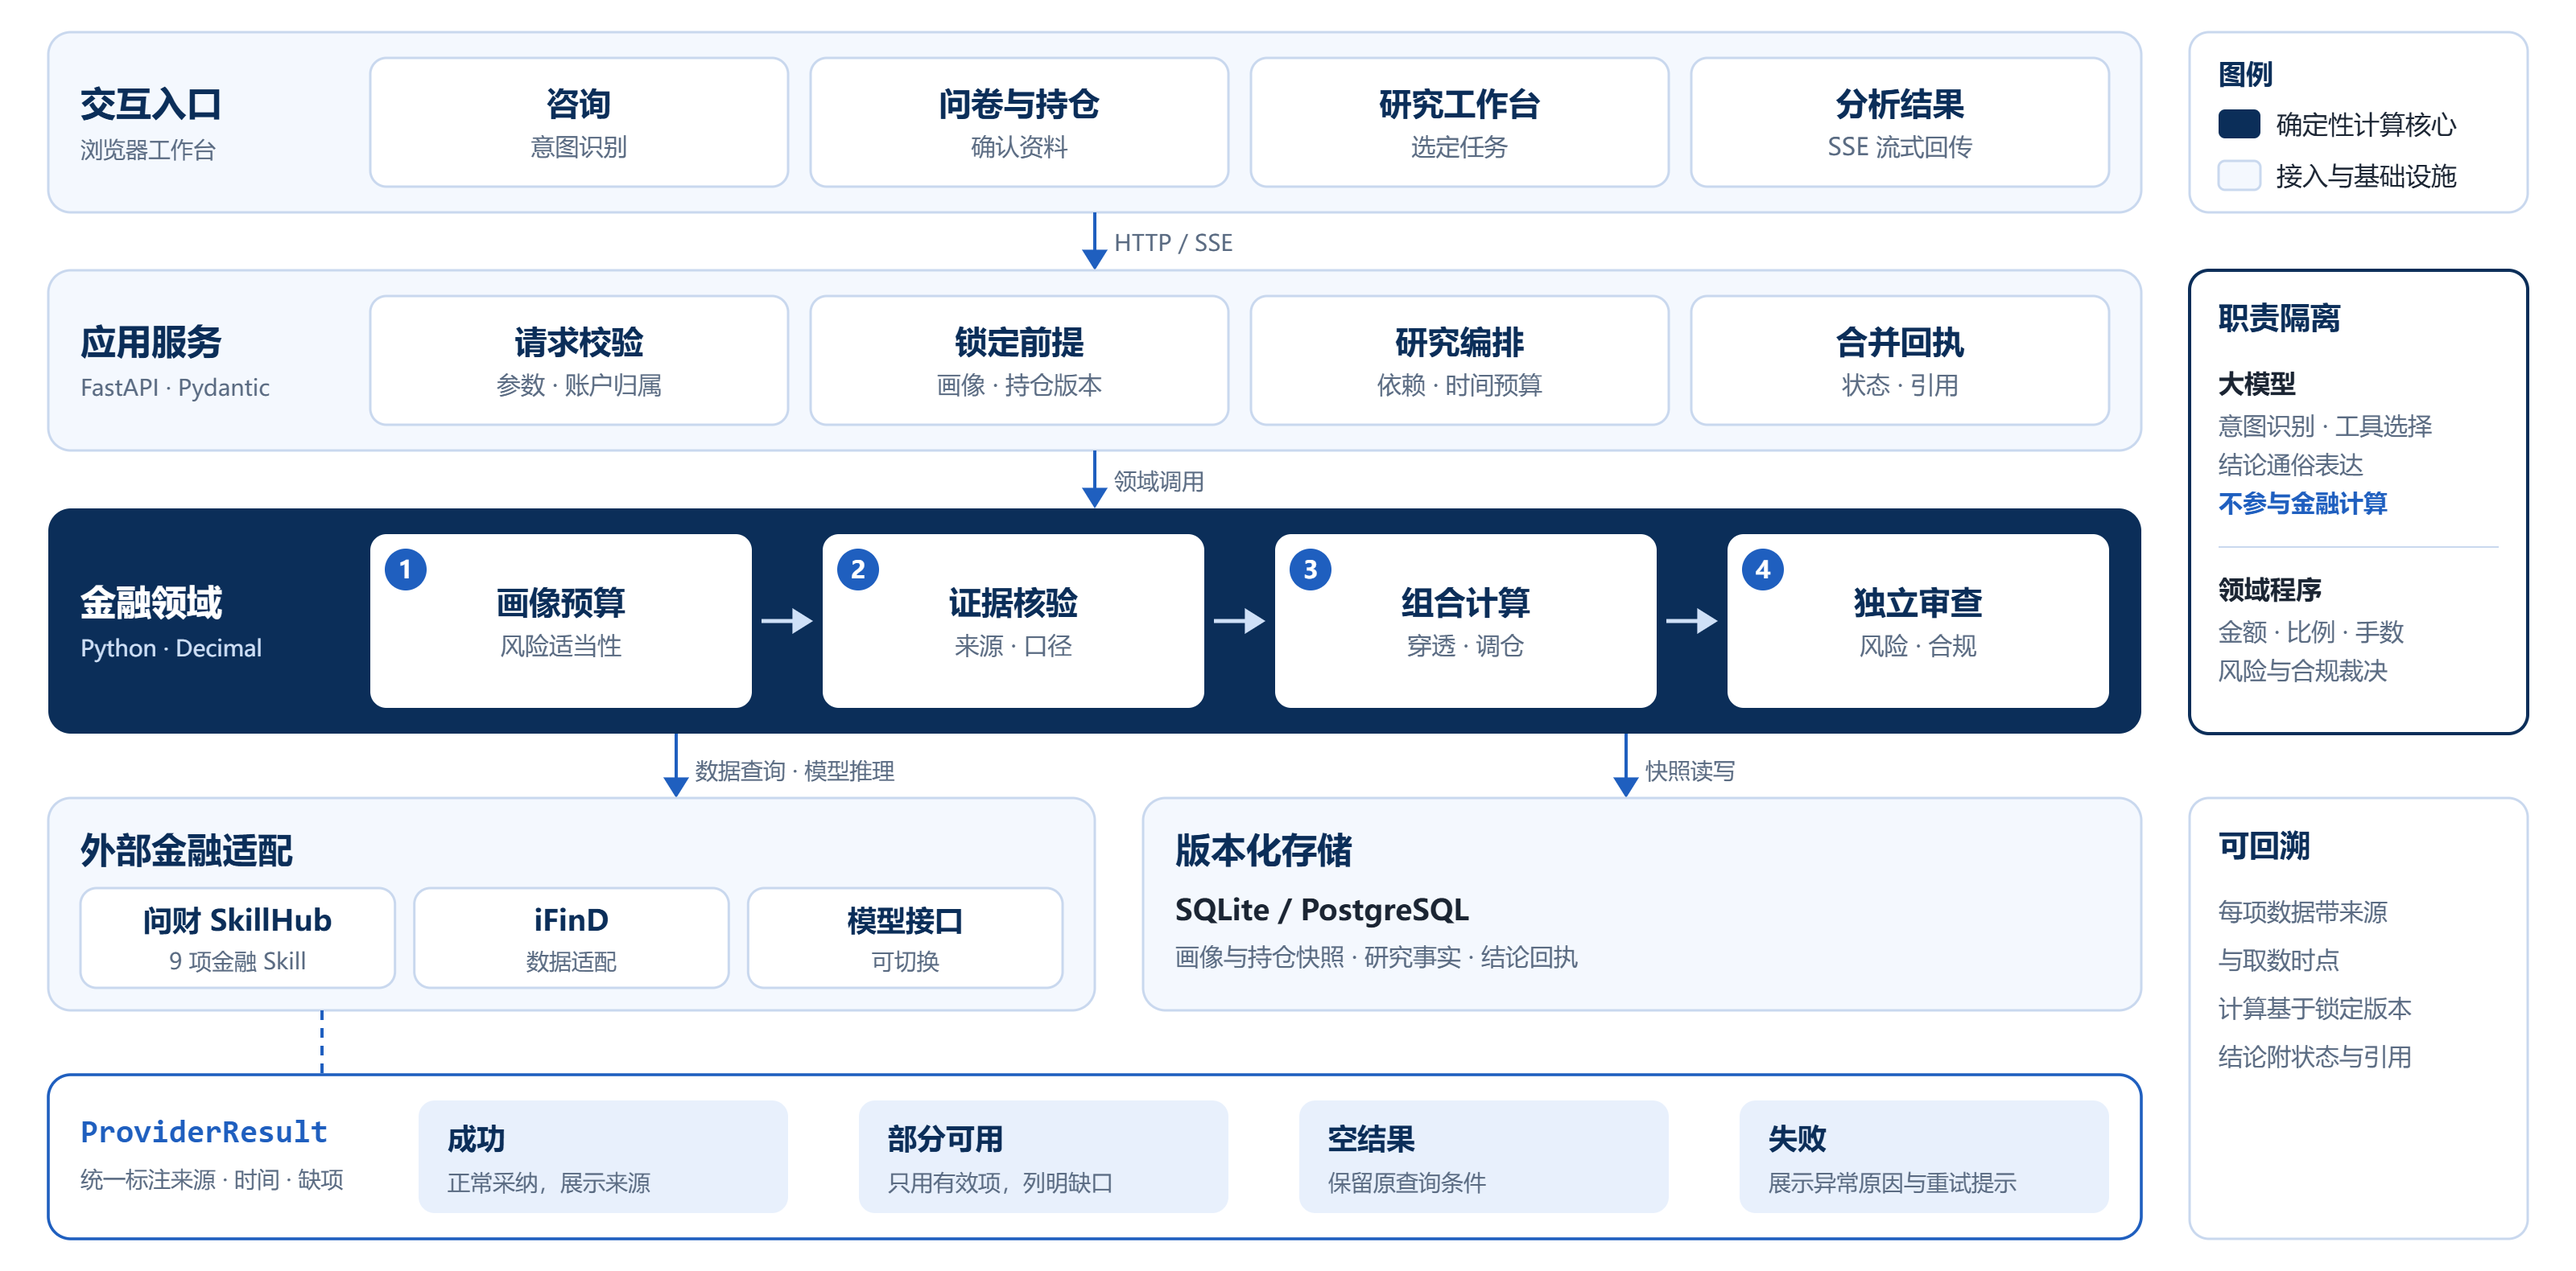
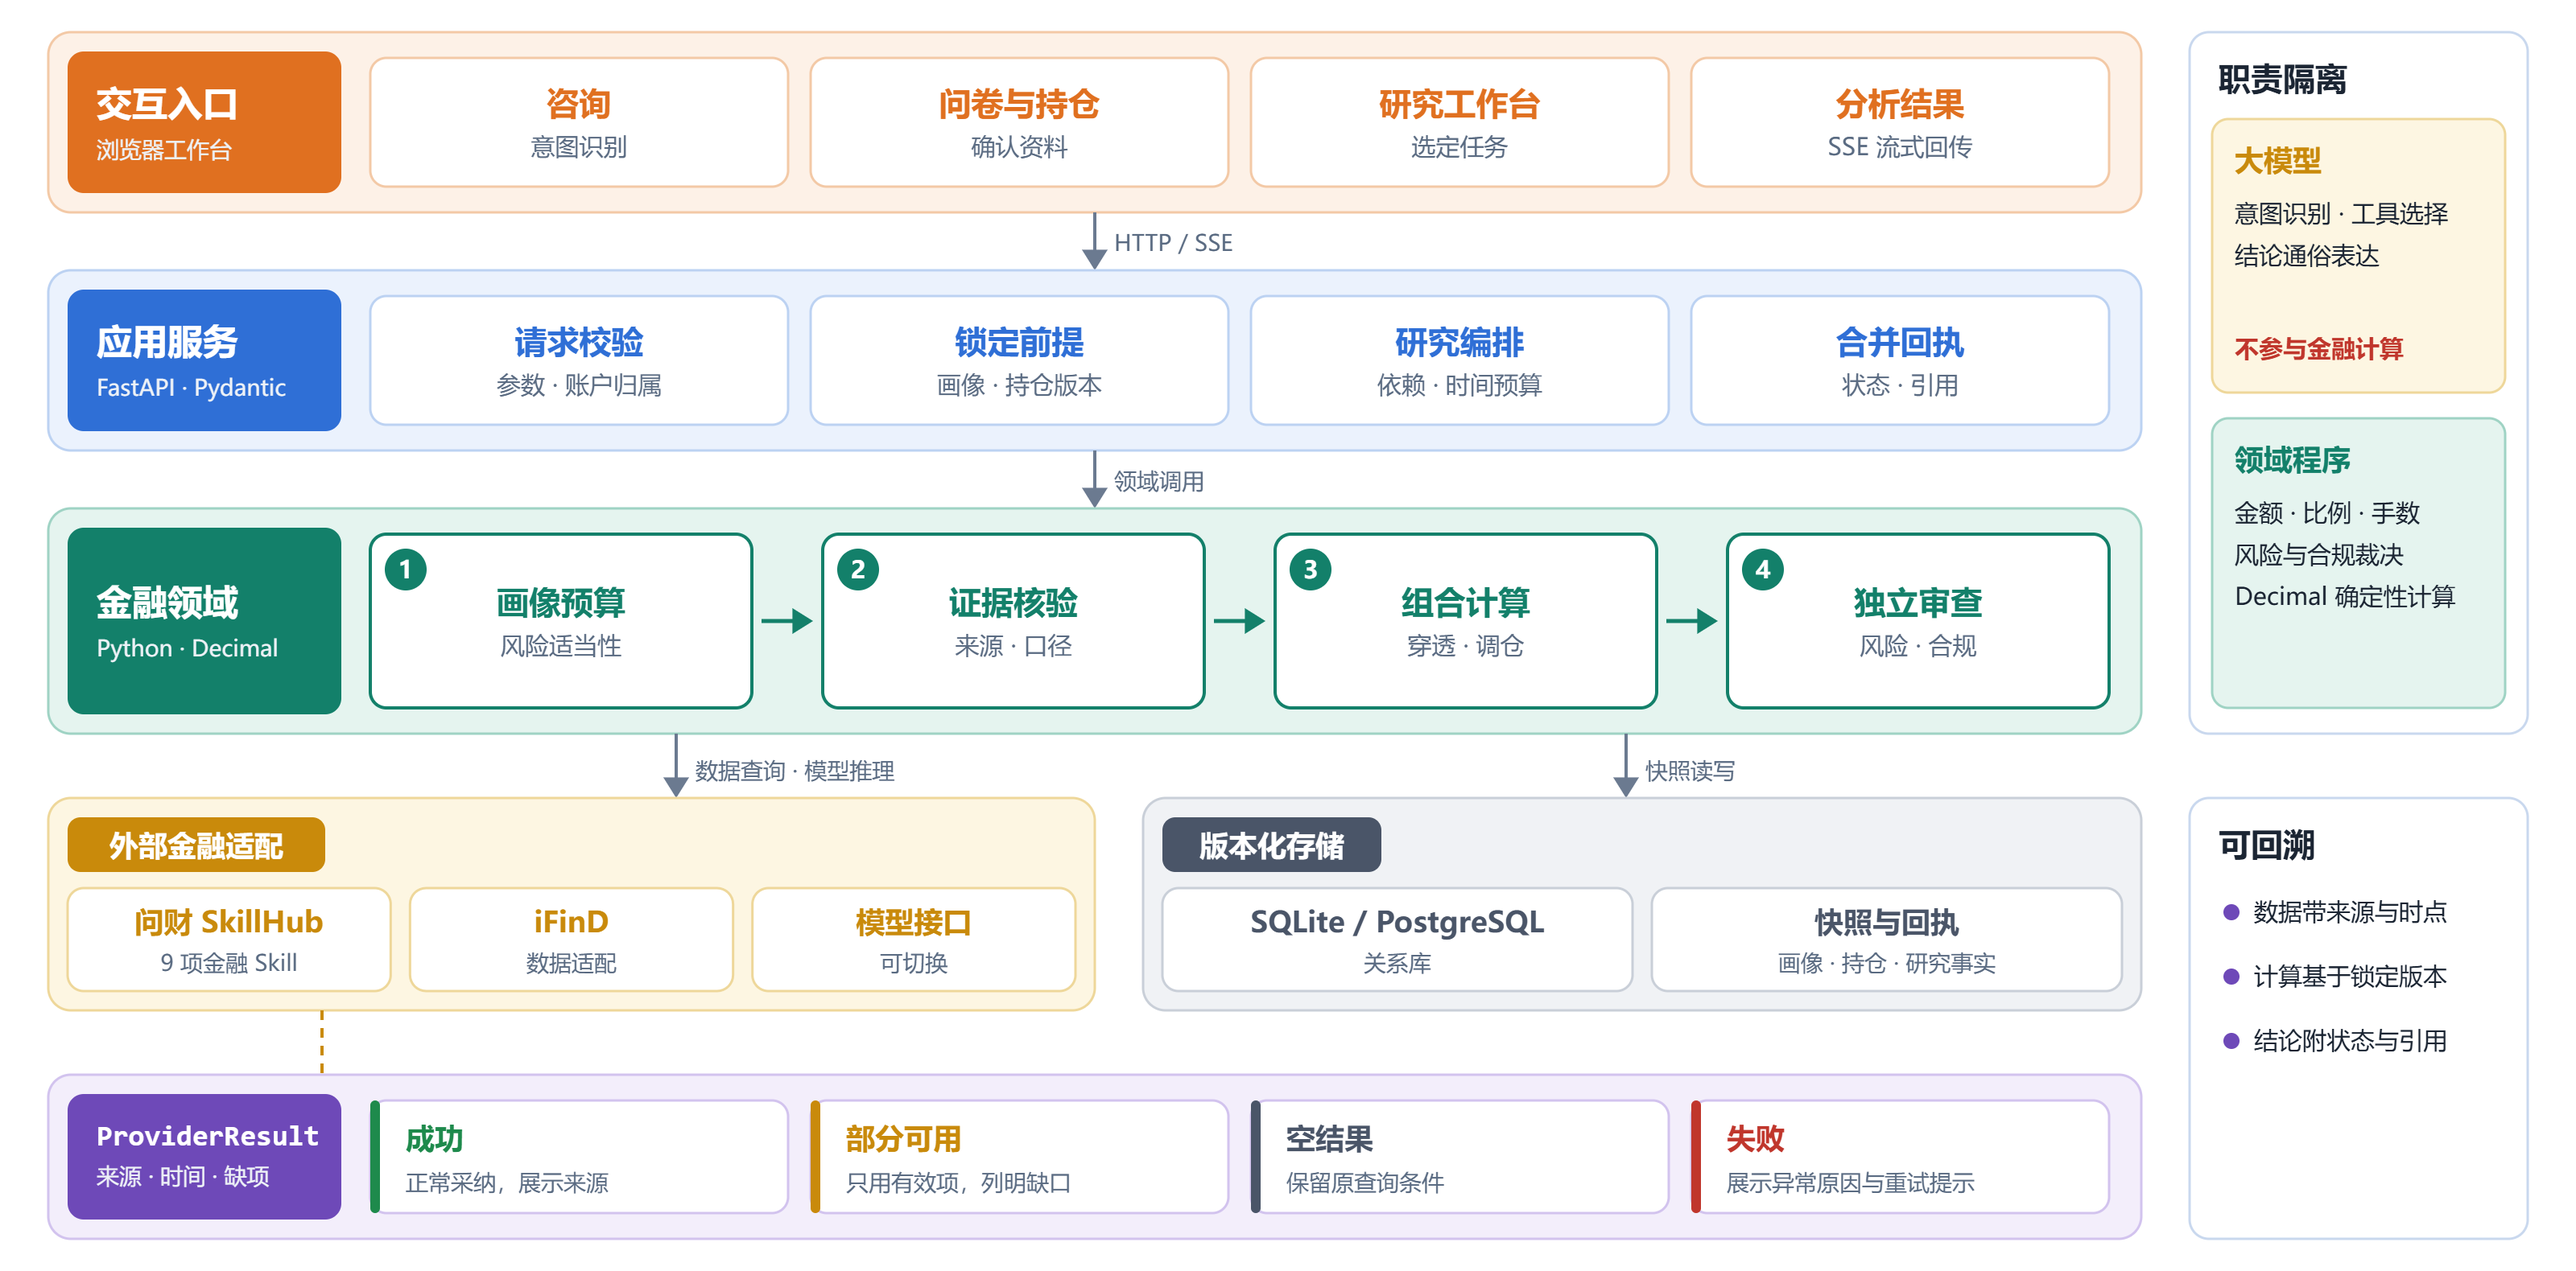
docs: give each S11 figure layer its own hue
Interaction orange, application blue, finance domain teal, adapters amber,
storage slate, ProviderResult purple with green/amber/gray/red states, so
blocks separate clearly on the slide.

diff --git a/docs/submission/s3-figures/build_fig_s11.py b/docs/submission/s3-figures/build_fig_s11.py
@@ -1,7 +1,8 @@
-"""S3 defense deck page 11 figure in the deck's navy/blue palette.
+"""S3 defense deck page 11 figure: model understands, server computes and reviews.
 
 Same layered layout as fig-s14 (layer label column + chips + right-side
-responsibility panel), recoloured to match the blue-white slide template.
+responsibility panel). Each layer has its own hue so blocks separate at a
+glance on the blue slide template.
 Run:  python docs/submission/s3-figures/build_fig_s11.py
       node docs/submission/s3-figures/render_png.mjs
 """
@@ -10,34 +11,52 @@ from __future__ import annotations
 
 from build_figures import MONO, Svg
 
-NAVY = "#0B2E59"
-BLUE = "#1F5FBF"
-BLUE_SOFT = "#E8F0FC"
-BLUE_PALE = "#F4F8FE"
-LINE = "#C9D8EE"
 INK = "#1B2533"
 MUTED = "#5A6B82"
-LIGHT = "#CFE0F7"
+ARROW = "#6B7A90"
 WHITE = "#FFFFFF"
+
+# hue: (accent, soft zone fill, card border)
+ORANGE = ("#E07020", "#FDF1E7", "#F3C9A6")
+BLUE = ("#2F6FD6", "#EBF2FD", "#BCD2F2")
+TEAL = ("#13806A", "#E5F4EF", "#9FD3C4")
+AMBER = ("#C98A0B", "#FDF6E2", "#EED79A")
+SLATE = ("#4A5568", "#F0F2F5", "#C9CFD8")
+PURPLE = ("#6E49B8", "#F3EEFB", "#D2C3EE")
+GREEN_S = "#1E8A4C"
+RED_S = "#C0362C"
 
 L, R = 230, 1330  # chip column inside layers
 
 
-def layer(s: Svg, y, h, name, tech, chips, *, focus=False):
-    s.rect(30, y, R - 30, h, NAVY if focus else BLUE_PALE, None if focus else LINE, 1.5, 14)
-    s.text(50, y + h / 2 - 4, name, 22, 700, WHITE if focus else NAVY)
-    s.text(50, y + h / 2 + 22, tech, 14, 400, LIGHT if focus else MUTED)
+def tab(s: Svg, x, y, w, h, name, tech, hue):
+    """Solid coloured label block on the left of a zone."""
+    acc = hue[0]
+    s.rect(x, y, w, h, acc, None, 0, 10)
+    s.text(x + 18, y + h / 2 - 4, name, 22, 700, WHITE)
+    s.text(x + 18, y + h / 2 + 22, tech, 14, 400, "#EEF2F7")
+
+
+def layer(s: Svg, y, h, name, tech, chips, hue, *, steps=False):
+    acc, soft, line = hue
+    s.rect(30, y, R - 30, h, soft, line, 1.5, 14)
+    tab(s, 42, y + 12, L - 60, h - 24, name, tech, hue)
     n = len(chips)
-    gap = 44 if focus else 14
+    gap = 44 if steps else 14
     cw = (R - L - 20 - (n - 1) * gap) / n
     for i, (t, sub) in enumerate(chips):
         x = L + i * (cw + gap)
-        s.box(x, y + 16, cw, h - 32, t, sub, fill=WHITE, stroke=None if focus else LINE,
-              tcolor=NAVY, scolor=MUTED, tsize=20, ssize=15)
-        if focus:
-            s.badge(x + 22, y + 38, str(i + 1), fill=BLUE, r=13, size=15)
+        s.box(x, y + 16, cw, h - 32, t, sub, fill=WHITE, stroke=acc if steps else line,
+              sw=2 if steps else 1.5, tcolor=acc, scolor=MUTED, tsize=20, ssize=15)
+        if steps:
+            s.badge(x + 22, y + 38, str(i + 1), fill=acc, r=13, size=15)
             if i < n - 1:
-                s.arrow([(x + cw + 6, y + h / 2), (x + cw + gap - 6, y + h / 2)], LIGHT, 2.5)
+                s.arrow([(x + cw + 6, y + h / 2), (x + cw + gap - 6, y + h / 2)], acc, 2.5)
+
+
+def down(s: Svg, x, y1, y2, label):
+    s.arrow([(x, y1), (x, y2)], ARROW, 2)
+    s.text(x + 12, y2 - 12, label, 14, 400, MUTED)
 
 
 def fig_s11() -> None:
@@ -45,79 +64,83 @@ def fig_s11() -> None:
 
     layer(s, 20, 112, "交互入口", "浏览器工作台", [
         ("咨询", "意图识别"), ("问卷与持仓", "确认资料"),
-        ("研究工作台", "选定任务"), ("分析结果", "SSE 流式回传")])
-    s.arrow([(680, 132), (680, 168)], BLUE, 2)
-    s.text(692, 156, "HTTP / SSE", 14, 400, MUTED)
+        ("研究工作台", "选定任务"), ("分析结果", "SSE 流式回传")], ORANGE)
+    down(s, 680, 132, 168, "HTTP / SSE")
 
     layer(s, 168, 112, "应用服务", "FastAPI · Pydantic", [
         ("请求校验", "参数 · 账户归属"), ("锁定前提", "画像 · 持仓版本"),
-        ("研究编排", "依赖 · 时间预算"), ("合并回执", "状态 · 引用")])
-    s.arrow([(680, 280), (680, 316)], BLUE, 2)
-    s.text(692, 304, "领域调用", 14, 400, MUTED)
+        ("研究编排", "依赖 · 时间预算"), ("合并回执", "状态 · 引用")], BLUE)
+    down(s, 680, 280, 316, "领域调用")
 
     layer(s, 316, 140, "金融领域", "Python · Decimal", [
         ("画像预算", "风险适当性"), ("证据核验", "来源 · 口径"),
-        ("组合计算", "穿透 · 调仓"), ("独立审查", "风险 · 合规")], focus=True)
+        ("组合计算", "穿透 · 调仓"), ("独立审查", "风险 · 合规")], TEAL, steps=True)
 
     # bottom: adapters + storage
     y4, h4 = 496, 132
-    s.arrow([(420, 456), (420, y4)], BLUE, 2)
-    s.text(432, 484, "数据查询 · 模型推理", 14, 400, MUTED)
-    s.arrow([(1010, 456), (1010, y4)], BLUE, 2)
-    s.text(1022, 484, "快照读写", 14, 400, MUTED)
+    down(s, 420, 456, y4, "数据查询 · 模型推理")
+    down(s, 1010, 456, y4, "快照读写")
 
-    s.rect(30, y4, 650, h4, BLUE_PALE, LINE, 1.5, 14)
-    s.text(50, y4 + 40, "外部金融适配", 22, 700, NAVY)
+    acc, soft, line = AMBER
+    s.rect(30, y4, 650, h4, soft, line, 1.5, 14)
+    s.rect(42, y4 + 12, 160, 34, acc, None, 0, 8)
+    s.text(122, y4 + 36, "外部金融适配", 18, 700, WHITE, "middle")
     ext = [("问财 SkillHub", "9 项金融 Skill"), ("iFinD", "数据适配"), ("模型接口", "可切换")]
-    ew = (680 - 50 - 20 - 2 * 12) / 3
+    ew = (680 - 42 - 12 - 2 * 12) / 3
     for i, (t, sub) in enumerate(ext):
-        s.box(50 + i * (ew + 12), y4 + 56, ew, 62, t, sub, fill=WHITE, stroke=LINE,
-              tcolor=NAVY, scolor=MUTED, tsize=18, ssize=14)
+        s.box(42 + i * (ew + 12), y4 + 56, ew, 64, t, sub, fill=WHITE, stroke=line,
+              tcolor=acc, scolor=MUTED, tsize=18, ssize=14)
 
-    s.rect(710, y4, R - 710, h4, BLUE_PALE, LINE, 1.5, 14)
-    s.text(730, y4 + 40, "版本化存储", 22, 700, NAVY)
-    s.text(730, y4 + 76, "SQLite / PostgreSQL", 18, 700, INK)
-    s.text(730, y4 + 104, "画像与持仓快照 · 研究事实 · 结论回执", 15, 400, MUTED)
+    acc, soft, line = SLATE
+    s.rect(710, y4, R - 710, h4, soft, line, 1.5, 14)
+    s.rect(722, y4 + 12, 136, 34, acc, None, 0, 8)
+    s.text(790, y4 + 36, "版本化存储", 18, 700, WHITE, "middle")
+    dbs = [("SQLite / PostgreSQL", "关系库"), ("快照与回执", "画像 · 持仓 · 研究事实")]
+    dw = (R - 722 - 12 - 12) / 2
+    for i, (t, sub) in enumerate(dbs):
+        s.box(722 + i * (dw + 12), y4 + 56, dw, 64, t, sub, fill=WHITE, stroke=line,
+              tcolor=acc, scolor=MUTED, tsize=18, ssize=14)
 
     # provider result strip
     y5, h5 = 668, 102
-    s.line([(200, y4 + h4), (200, y5)], BLUE, 2, dash="6 5")
-    s.rect(30, y5, R - 30, h5, WHITE, BLUE, 1.8, 14)
-    s.text(50, y5 + 42, "ProviderResult", 20, 700, BLUE, font=MONO)
-    s.text(50, y5 + 70, "统一标注来源 · 时间 · 缺项", 14, 400, MUTED)
-    states = [("成功", "正常采纳，展示来源"), ("部分可用", "只用有效项，列明缺口"),
-              ("空结果", "保留原查询条件"), ("失败", "展示异常原因与重试提示")]
+    acc, soft, line = PURPLE
+    s.line([(200, y4 + h4), (200, y5)], AMBER[0], 2, dash="6 5")
+    s.rect(30, y5, R - 30, h5, soft, line, 1.5, 14)
+    s.rect(42, y5 + 12, L - 60, h5 - 24, acc, None, 0, 10)
+    s.text(60, y5 + 44, "ProviderResult", 18, 700, WHITE, font=MONO)
+    s.text(60, y5 + 68, "来源 · 时间 · 缺项", 14, 400, "#EEF2F7")
+    states = [("成功", "正常采纳，展示来源", GREEN_S), ("部分可用", "只用有效项，列明缺口", AMBER[0]),
+              ("空结果", "保留原查询条件", SLATE[0]), ("失败", "展示异常原因与重试提示", RED_S)]
     sw_ = (R - L - 20 - 3 * 14) / 4
-    for i, (t, sub) in enumerate(states):
-        x = L + 30 + i * (sw_ + 14)
-        s.rect(x, y5 + 16, sw_ - 30, h5 - 32, BLUE_SOFT, None, 0, 10)
-        s.text(x + 18, y5 + 46, t, 18, 700, NAVY)
-        s.text(x + 18, y5 + 72, sub, 14, 400, MUTED)
+    for i, (t, sub, c) in enumerate(states):
+        x = L + i * (sw_ + 14)
+        s.rect(x, y5 + 16, sw_, h5 - 32, WHITE, line, 1.5, 10)
+        s.rect(x, y5 + 16, 6, h5 - 32, c, None, 0, 3)
+        s.text(x + 22, y5 + 46, t, 18, 700, c)
+        s.text(x + 22, y5 + 72, sub, 14, 400, MUTED)
 
-    # right panel
+    # right panel: responsibility split
     x0, pw = 1360, 210
-    s.rect(x0, 20, pw, 112, WHITE, LINE, 1.5, 12)
-    s.text(x0 + 18, 52, "图例", 17, 700, NAVY)
-    s.rect(x0 + 18, 68, 26, 18, NAVY, None, 0, 4)
-    s.text(x0 + 54, 83, "确定性计算核心", 16, 400, INK)
-    s.rect(x0 + 18, 100, 26, 18, BLUE_PALE, LINE, 1.5, 4)
-    s.text(x0 + 54, 115, "接入与基础设施", 16, 400, INK)
+    s.rect(x0, 20, pw, 436, WHITE, "#C9D8EE", 1.5, 12)
+    s.text(x0 + 18, 56, "职责隔离", 20, 700, INK)
+    a = AMBER
+    s.rect(x0 + 14, 74, pw - 28, 170, a[1], a[2], 1.5, 10)
+    s.text(x0 + 28, 106, "大模型", 18, 700, a[0])
+    for i, t in enumerate(["意图识别 · 工具选择", "结论通俗表达"]):
+        s.text(x0 + 28, 138 + i * 26, t, 15, 400, INK)
+    s.text(x0 + 28, 222, "不参与金融计算", 15, 700, RED_S)
+    t_ = TEAL
+    s.rect(x0 + 14, 260, pw - 28, 180, t_[1], t_[2], 1.5, 10)
+    s.text(x0 + 28, 292, "领域程序", 18, 700, t_[0])
+    for i, t in enumerate(["金额 · 比例 · 手数", "风险与合规裁决", "Decimal 确定性计算"]):
+        s.text(x0 + 28, 324 + i * 26, t, 15, 400, INK)
 
-    s.rect(x0, 168, pw, 288, WHITE, NAVY, 2, 12)
-    s.text(x0 + 18, 204, "职责隔离", 19, 700, NAVY)
-    s.text(x0 + 18, 244, "大模型", 16, 700, INK)
-    s.text(x0 + 18, 270, "意图识别 · 工具选择", 15, 400, MUTED)
-    s.text(x0 + 18, 294, "结论通俗表达", 15, 400, MUTED)
-    s.text(x0 + 18, 318, "不参与金融计算", 15, 700, BLUE)
-    s.line([(x0 + 18, 340), (x0 + pw - 18, 340)], LINE, 1)
-    s.text(x0 + 18, 372, "领域程序", 16, 700, INK)
-    s.text(x0 + 18, 398, "金额 · 比例 · 手数", 15, 400, MUTED)
-    s.text(x0 + 18, 422, "风险与合规裁决", 15, 400, MUTED)
-
-    s.rect(x0, 496, pw, 274, WHITE, LINE, 1.5, 12)
-    s.text(x0 + 18, 532, "可回溯", 19, 700, NAVY)
-    for i, t in enumerate(["每项数据带来源", "与取数时点", "计算基于锁定版本", "结论附状态与引用"]):
-        s.text(x0 + 18, 572 + i * 30, t, 15, 400, MUTED)
+    p = PURPLE
+    s.rect(x0, 496, pw, 274, WHITE, "#C9D8EE", 1.5, 12)
+    s.text(x0 + 18, 532, "可回溯", 20, 700, INK)
+    for i, t in enumerate(["数据带来源与时点", "计算基于锁定版本", "结论附状态与引用"]):
+        s.add(f'<circle cx="{x0 + 26}" cy="{567 + i * 40}" r="5" fill="{p[0]}"/>')
+        s.text(x0 + 40, 572 + i * 40, t, 15, 400, INK)
 
     s.save("fig-s11-model-service-split.svg")
 
